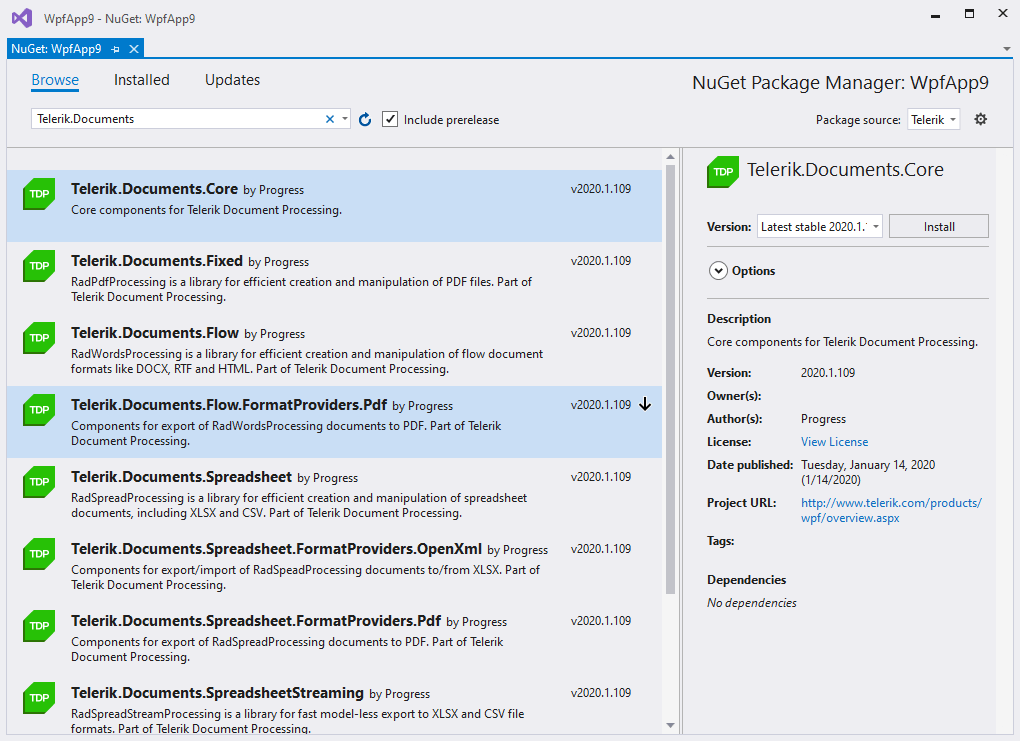
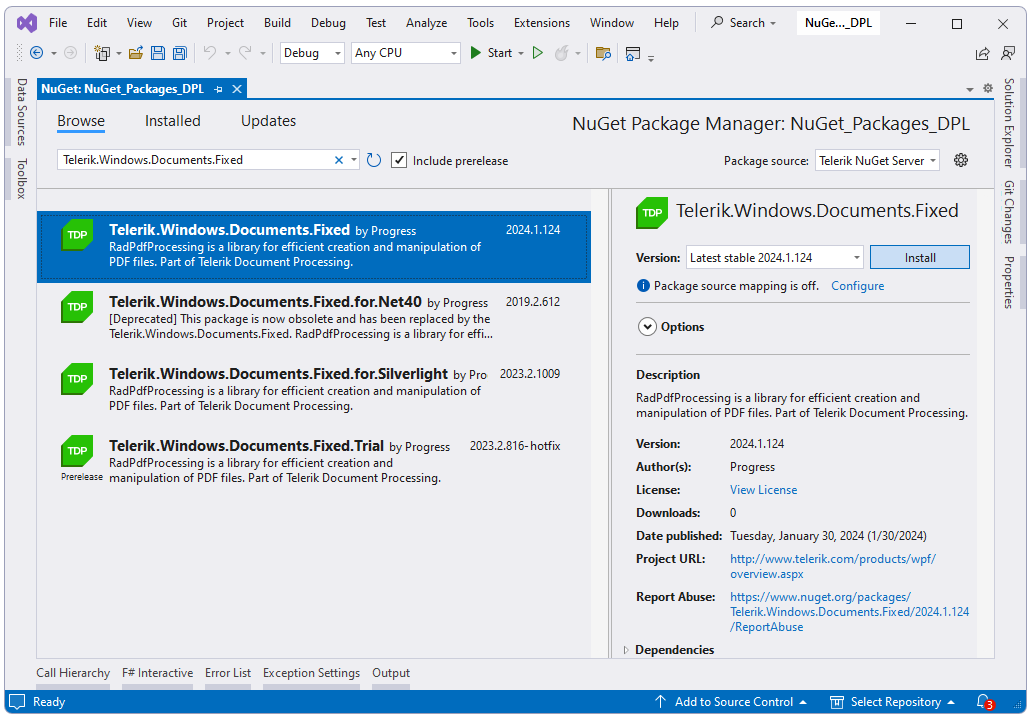
manually download nugets

diff --git a/getting-started/Installation/install-nuget-packages.md b/getting-started/Installation/install-nuget-packages.md
@@ -1,0 +1,60 @@
+---
+title: Install using NuGet Packages
+page_title: Install using NuGet Packages
+description: Learn how you can install the Telerik Document Processing libraries through NuGet.
+slug: installation-nuget-packages
+tags: nuget, document, processing, install, server, manual, download
+published: True
+position: 7
+---
+
+# Install using NuGet Packages
+
+This article describes how you can install the Document Processing Libraries using a NuGet package. There are two ways for getting the NuGet packages:
+
+* [Manually download the packages](#manually-download-nuget-packages)
+
+* [Get the packages from the Telerik NuGet server](#download-from-the-nuget-server)
+
+## Manually Download NuGet Packages
+
+1. First you need to log in using your Telerik licensed account. Telerik Document Processing is a part of several Telerik bundles and is available in the Downloads section of the suite with which you've obtained the product, e.g. UI for Blazor. This way you will be able to download the packages:
+
+	![install-using-nuget001](images/install-using-nuget001.png)
+	
+1. Then, you need to add packages to Visual Studio. Open the NuGet manager and then click the Options button:
+	
+	![installation-nuget-packages 002](images/installation-nuget-packages001.png)
+1. Add new package source. The __Source__ should point to the local folder with the NuGets:
+	
+	![installation-deployment-and-distribution-install-using-nuget 003](images/installation-deployment-and-distribution-install-using-nuget003.png)
+
+1. The final step is to select and install the desired packages. Please note that there are several versions, corresponding to the target framework used in the project, one for .NET 4.0, one for 4.8, one for .NET 6.0 or newer. 
+
+	![installation-deployment-and-distribution-install-using-nuget 00](images/installation-deployment-and-distribution-install-using-nuget008.png)
+
+## Download from the NuGet server
+
+Before you can install Telerik NuGet packages, you must configure the Telerik NuGet server (https://nuget.telerik.com/v3/index.json) as a package source in Visual Studio:
+
+>caution The old **https://nuget.telerik.com/nuget** server is deprecated and we encourage our clients to switch to the v3 API. The new v3 API is faster, lighter, and reduces the number of requests from NuGet clients.  
+
+1\. In the Visual Studio Solution Explorer, right-click a Project, select **Manage NuGet Packages...**, and then select the **Settings** icon:
+
+![installation-nuget-packages 001](images/installation-nuget-packages001.png)
+
+2\. Select **+** to add a new package source and enter https://nuget.telerik.com/v3/index.json in the **Source** field. Add a name for the new package source, for example, **Telerik NuGet Server**:
+
+![installation-nuget-packages 002](images/installation-nuget-packages002.png)
+
+3\. Select **Telerik NuGet Server** from the __Package Source__ dropdown, and you will be prompted for a user name and a password. Use the credentials for your [Telerik Account](https://www.telerik.com/account/).
+
+![installation-nuget-packages 003](images/installation-nuget-packages003.png)
+
+4\. Select and install the desired NuGet packages.
+
+![installation-nuget-packages 004](images/installation-nuget-packages004.png)
+
+## See Also
+
+ * [Restoring NuGet Packages in Your CI Workflow]({%slug using-nuget-keys%})
